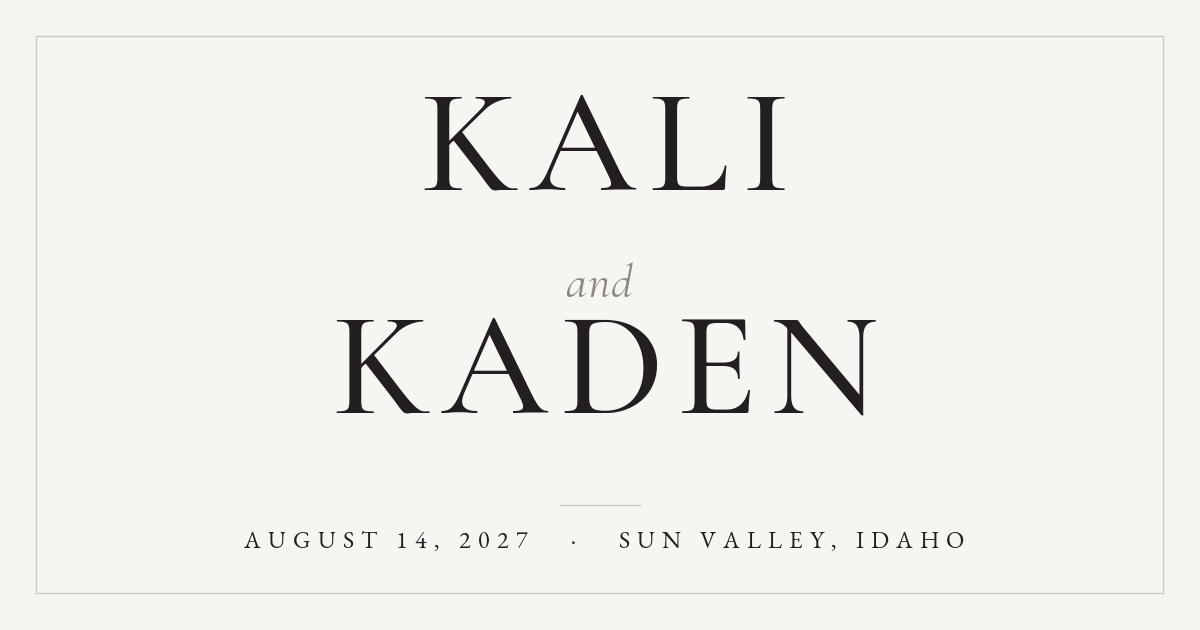
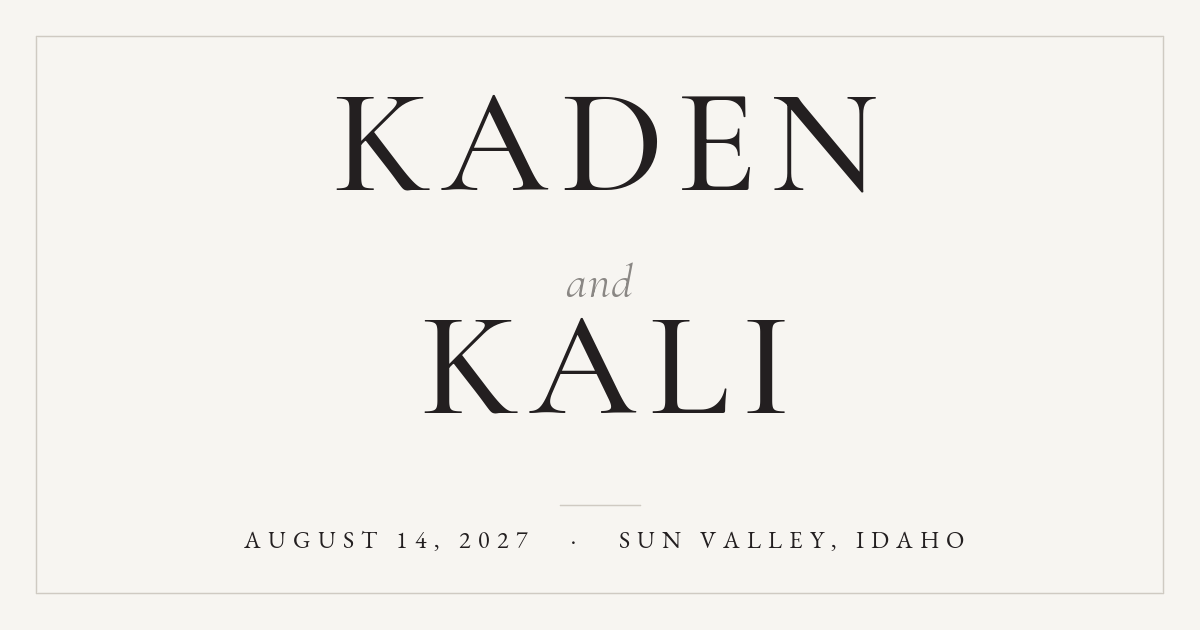
Order the names Kaden and Kali everywhere, matching the domain
Text, titles, meta tags, alt text, docs, and the regenerated share image.

Changed region(s): [[0.2775, 0.4825, 0.74, 0.6635], [0.2775, 0.1508, 0.74, 0.3016], [0.4933, 0.4825, 0.5242, 0.5127]]

diff --git a/admin/index.html b/admin/index.html
@@ -3,7 +3,7 @@
 <head>
   <meta charset="UTF-8" />
   <meta name="viewport" content="width=device-width, initial-scale=1.0" />
-  <title>Kali &amp; Kaden &middot; Preview</title>
+  <title>Kaden &amp; Kali &middot; Preview</title>
   <meta name="robots" content="noindex, nofollow" />
   <!-- Icons -->
   <link rel="icon" href="/assets/favicon.ico" sizes="any" />
@@ -11,12 +11,12 @@
   <link rel="icon" type="image/png" sizes="16x16" href="/assets/favicon-16.png" />
   <link rel="apple-touch-icon" sizes="180x180" href="/assets/apple-touch-icon.png" />
   <meta name="theme-color" content="#f7f5f1" />
-  <meta name="apple-mobile-web-app-title" content="Kali &amp; Kaden" />
+  <meta name="apple-mobile-web-app-title" content="Kaden &amp; Kali" />
 
   <!-- Link previews (iMessage, Slack, Facebook, Twitter) -->
   <meta property="og:type" content="website" />
-  <meta property="og:site_name" content="Kali &amp; Kaden" />
-  <meta property="og:title" content="Kali &amp; Kaden" />
+  <meta property="og:site_name" content="Kaden &amp; Kali" />
+  <meta property="og:title" content="Kaden &amp; Kali" />
   <meta property="og:description" content="August 14, 2027 &middot; Galena Lodge, Sun Valley, Idaho" />
   <meta property="og:url" content="https://kadenandkali.com/admin/" />
   <meta property="og:image" content="https://kadenandkali.com/assets/og-image.png" />
@@ -24,22 +24,22 @@
   <meta property="og:image:type" content="image/png" />
   <meta property="og:image:width" content="1200" />
   <meta property="og:image:height" content="630" />
-  <meta property="og:image:alt" content="Kali and Kaden. August 14, 2027. Sun Valley, Idaho." />
+  <meta property="og:image:alt" content="Kaden and Kali. August 14, 2027. Sun Valley, Idaho." />
   <meta name="twitter:card" content="summary_large_image" />
-  <meta name="twitter:title" content="Kali &amp; Kaden" />
+  <meta name="twitter:title" content="Kaden &amp; Kali" />
   <meta name="twitter:description" content="August 14, 2027 &middot; Galena Lodge, Sun Valley, Idaho" />
   <meta name="twitter:image" content="https://kadenandkali.com/assets/og-image.png" />
 
   <link rel="preconnect" href="https://fonts.googleapis.com" />
   <link rel="preconnect" href="https://fonts.gstatic.com" crossorigin />
   <link href="https://fonts.googleapis.com/css2?family=Cormorant+Garamond:ital,wght@0,400;0,500;0,600;1,400;1,500&family=EB+Garamond:ital,wght@0,400;0,500;1,400&display=swap" rel="stylesheet" />
-  <link rel="stylesheet" href="../styles.css?v=20261029f" />
+  <link rel="stylesheet" href="../styles.css?v=20261029g" />
 </head>
 <body class="locked">
   <!-- Guest gate: removed on launch day. See README. -->
   <div id="gate" class="gate">
     <form id="gate-form" class="gate-form" novalidate>
-      <p class="caps label">Kali <span class="brand-and">and</span> Kaden</p>
+      <p class="caps label">Kaden <span class="brand-and">and</span> Kali</p>
       <label for="gate-name" class="gate-prompt">Please enter your name as it appears on your invitation.</label>
       <input type="text" id="gate-name" name="name" autocomplete="name" autocapitalize="words" autofocus aria-describedby="gate-status" />
       <div class="form-actions">
@@ -52,7 +52,7 @@
   <!-- The site is inert inside this template until gate.js unlocks it. -->
   <template id="site">
   <header class="site-header">
-    <a href="#top" class="brand">Kali <span class="brand-and">and</span> Kaden</a>
+    <a href="#top" class="brand">Kaden <span class="brand-and">and</span> Kali</a>
     <button class="menu-toggle" aria-label="Open menu" aria-expanded="false" aria-controls="menu">
       <span></span><span></span><span></span>
     </button>
@@ -74,12 +74,12 @@
     <section class="hero hero-photo">
       <picture class="hero-media">
         <source media="(max-width: 700px)" srcset="../assets/hero-small.jpg" />
-        <img src="../assets/hero.jpg" alt="Kali and Kaden walking hand in hand through a mountain meadow" fetchpriority="high" />
+        <img src="../assets/hero.jpg" alt="Kaden and Kali walking hand in hand through a mountain meadow" fetchpriority="high" />
       </picture>
       <div class="hero-scrim" aria-hidden="true"></div>
       <div class="hero-inner">
         <p class="caps hero-eyebrow">We&rsquo;re getting married</p>
-        <h1 class="hero-names">Kali <span class="amp">&amp;</span> Kaden</h1>
+        <h1 class="hero-names">Kaden <span class="amp">&amp;</span> Kali</h1>
         <p class="caps hero-date" id="hero-date">08 . 14 . 27</p>
         <p class="caps hero-place">Sun Valley, Idaho</p>
         <p class="hero-countdown" id="countdown" aria-live="polite"></p>
@@ -169,7 +169,7 @@
     </section>
 
     <!-- Photo -->
-    <figure class="photo photo-inset" role="img" aria-label="Photo of Kali and Kaden">
+    <figure class="photo photo-inset" role="img" aria-label="Photo of Kaden and Kali">
       <div class="photo-placeholder"><span class="caps">Photograph</span></div>
     </figure>
 
@@ -246,12 +246,12 @@
   </main>
 
   <footer class="site-footer">
-    <p class="caps">Kali <span class="brand-and">and</span> Kaden &middot; August 14, 2027 &middot; Sun Valley, Idaho</p>
+    <p class="caps">Kaden <span class="brand-and">and</span> Kali &middot; August 14, 2027 &middot; Sun Valley, Idaho</p>
   </footer>
 
   </template>
 
-  <script src="../config.js?v=20261029f"></script>
-  <script src="gate.js?v=20261029f"></script>
+  <script src="../config.js?v=20261029g"></script>
+  <script src="gate.js?v=20261029g"></script>
 </body>
 </html>

diff --git a/admin/details.html b/admin/details.html
@@ -3,7 +3,7 @@
 <head>
   <meta charset="UTF-8" />
   <meta name="viewport" content="width=device-width, initial-scale=1.0" />
-  <title>Wedding Details &middot; Kali &amp; Kaden</title>
+  <title>Wedding Details &middot; Kaden &amp; Kali</title>
   <meta name="robots" content="noindex, nofollow" />
   <!-- Icons -->
   <link rel="icon" href="/assets/favicon.ico" sizes="any" />
@@ -11,12 +11,12 @@
   <link rel="icon" type="image/png" sizes="16x16" href="/assets/favicon-16.png" />
   <link rel="apple-touch-icon" sizes="180x180" href="/assets/apple-touch-icon.png" />
   <meta name="theme-color" content="#f7f5f1" />
-  <meta name="apple-mobile-web-app-title" content="Kali &amp; Kaden" />
+  <meta name="apple-mobile-web-app-title" content="Kaden &amp; Kali" />
 
   <!-- Link previews (iMessage, Slack, Facebook, Twitter) -->
   <meta property="og:type" content="website" />
-  <meta property="og:site_name" content="Kali &amp; Kaden" />
-  <meta property="og:title" content="Kali &amp; Kaden" />
+  <meta property="og:site_name" content="Kaden &amp; Kali" />
+  <meta property="og:title" content="Kaden &amp; Kali" />
   <meta property="og:description" content="August 14, 2027 &middot; Galena Lodge, Sun Valley, Idaho" />
   <meta property="og:url" content="https://kadenandkali.com/admin/details.html" />
   <meta property="og:image" content="https://kadenandkali.com/assets/og-image.png" />
@@ -24,22 +24,22 @@
   <meta property="og:image:type" content="image/png" />
   <meta property="og:image:width" content="1200" />
   <meta property="og:image:height" content="630" />
-  <meta property="og:image:alt" content="Kali and Kaden. August 14, 2027. Sun Valley, Idaho." />
+  <meta property="og:image:alt" content="Kaden and Kali. August 14, 2027. Sun Valley, Idaho." />
   <meta name="twitter:card" content="summary_large_image" />
-  <meta name="twitter:title" content="Kali &amp; Kaden" />
+  <meta name="twitter:title" content="Kaden &amp; Kali" />
   <meta name="twitter:description" content="August 14, 2027 &middot; Galena Lodge, Sun Valley, Idaho" />
   <meta name="twitter:image" content="https://kadenandkali.com/assets/og-image.png" />
 
   <link rel="preconnect" href="https://fonts.googleapis.com" />
   <link rel="preconnect" href="https://fonts.gstatic.com" crossorigin />
   <link href="https://fonts.googleapis.com/css2?family=Cormorant+Garamond:ital,wght@0,400;0,500;0,600;1,400;1,500&family=EB+Garamond:ital,wght@0,400;0,500;1,400&display=swap" rel="stylesheet" />
-  <link rel="stylesheet" href="../styles.css?v=20261029f" />
+  <link rel="stylesheet" href="../styles.css?v=20261029g" />
 </head>
 <body class="locked">
   <!-- Guest gate: same as index.html. A visitor who unlocked the main page is already through. -->
   <div id="gate" class="gate">
     <form id="gate-form" class="gate-form" novalidate>
-      <p class="caps label">Kali <span class="brand-and">and</span> Kaden</p>
+      <p class="caps label">Kaden <span class="brand-and">and</span> Kali</p>
       <label for="gate-name" class="gate-prompt">Please enter your name as it appears on your invitation.</label>
       <input type="text" id="gate-name" name="name" autocomplete="name" autocapitalize="words" autofocus aria-describedby="gate-status" />
       <div class="form-actions">
@@ -51,7 +51,7 @@
 
   <template id="site">
   <header class="site-header">
-    <a href="index.html" class="brand">Kali <span class="brand-and">and</span> Kaden</a>
+    <a href="index.html" class="brand">Kaden <span class="brand-and">and</span> Kali</a>
     <button class="menu-toggle" aria-label="Open menu" aria-expanded="false" aria-controls="menu">
       <span></span><span></span><span></span>
     </button>
@@ -119,11 +119,11 @@
   </main>
 
   <footer class="site-footer">
-    <p class="caps">Kali <span class="brand-and">and</span> Kaden &middot; August 14, 2027 &middot; Sun Valley, Idaho</p>
+    <p class="caps">Kaden <span class="brand-and">and</span> Kali &middot; August 14, 2027 &middot; Sun Valley, Idaho</p>
   </footer>
   </template>
 
-  <script src="../config.js?v=20261029f"></script>
-  <script src="gate.js?v=20261029f"></script>
+  <script src="../config.js?v=20261029g"></script>
+  <script src="gate.js?v=20261029g"></script>
 </body>
 </html>

diff --git a/index.html b/index.html
@@ -3,20 +3,20 @@
 <head>
   <meta charset="UTF-8" />
   <meta name="viewport" content="width=device-width, initial-scale=1.0" />
-  <title>Kali &amp; Kaden</title>
-  <meta name="description" content="Kali and Kaden are getting married. August 14, 2027. Sun Valley, Idaho." />
+  <title>Kaden &amp; Kali</title>
+  <meta name="description" content="Kaden and Kali are getting married. August 14, 2027. Sun Valley, Idaho." />
   <!-- Icons -->
   <link rel="icon" href="/assets/favicon.ico" sizes="any" />
   <link rel="icon" type="image/png" sizes="32x32" href="/assets/favicon-32.png" />
   <link rel="icon" type="image/png" sizes="16x16" href="/assets/favicon-16.png" />
   <link rel="apple-touch-icon" sizes="180x180" href="/assets/apple-touch-icon.png" />
   <meta name="theme-color" content="#f7f5f1" />
-  <meta name="apple-mobile-web-app-title" content="Kali &amp; Kaden" />
+  <meta name="apple-mobile-web-app-title" content="Kaden &amp; Kali" />
 
   <!-- Link previews (iMessage, Slack, Facebook, Twitter) -->
   <meta property="og:type" content="website" />
-  <meta property="og:site_name" content="Kali &amp; Kaden" />
-  <meta property="og:title" content="Kali &amp; Kaden" />
+  <meta property="og:site_name" content="Kaden &amp; Kali" />
+  <meta property="og:title" content="Kaden &amp; Kali" />
   <meta property="og:description" content="August 14, 2027 &middot; Galena Lodge, Sun Valley, Idaho" />
   <meta property="og:url" content="https://kadenandkali.com/" />
   <meta property="og:image" content="https://kadenandkali.com/assets/og-image.png" />
@@ -24,16 +24,16 @@
   <meta property="og:image:type" content="image/png" />
   <meta property="og:image:width" content="1200" />
   <meta property="og:image:height" content="630" />
-  <meta property="og:image:alt" content="Kali and Kaden. August 14, 2027. Sun Valley, Idaho." />
+  <meta property="og:image:alt" content="Kaden and Kali. August 14, 2027. Sun Valley, Idaho." />
   <meta name="twitter:card" content="summary_large_image" />
-  <meta name="twitter:title" content="Kali &amp; Kaden" />
+  <meta name="twitter:title" content="Kaden &amp; Kali" />
   <meta name="twitter:description" content="August 14, 2027 &middot; Galena Lodge, Sun Valley, Idaho" />
   <meta name="twitter:image" content="https://kadenandkali.com/assets/og-image.png" />
 
   <link rel="preconnect" href="https://fonts.googleapis.com" />
   <link rel="preconnect" href="https://fonts.gstatic.com" crossorigin />
   <link href="https://fonts.googleapis.com/css2?family=Cormorant+Garamond:ital,wght@0,400;0,500;0,600;1,400;1,500&family=EB+Garamond:ital,wght@0,400;0,500;1,400&display=swap" rel="stylesheet" />
-  <link rel="stylesheet" href="styles.css?v=20261029f" />
+  <link rel="stylesheet" href="styles.css?v=20261029g" />
   <script>
     // Local development: skip the holding page and open the preview.
     (() => {

diff --git a/admin/gate.js b/admin/gate.js
@@ -15,7 +15,7 @@
    ========================================================= */
 (() => {
   const CONFIG = window.KK_CONFIG;
-  const APP_SCRIPT = "../app.js?v=20261029f";
+  const APP_SCRIPT = "../app.js?v=20261029g";
   const UNLOCK_KEY = "kk-preview-unlocked";
 
   const gate = document.getElementById("gate");

diff --git a/AGENTS.md b/AGENTS.md
@@ -6,7 +6,7 @@ to work here safely.
 
 ## What this is
 
-The wedding website for **Kali and Kaden**. Wedding: **Saturday, August 14, 2027** at
+The wedding website for **Kaden and Kali**. Wedding: **Saturday, August 14, 2027** at
 **Galena Lodge, Sun Valley, Idaho**. Live at **https://kadenandkali.com**, hosted on GitHub
 Pages straight from the `main` branch. There is no build step: the files in this repo are the
 files guests download.
@@ -153,8 +153,8 @@ The look is modeled on Bliss & Bone's "Rivera" template: classic, quiet, editori
 3. Open the browser console. There should be no errors.
 4. If you touched the menu, countdown, or form, click through them. Do not submit the form.
 5. If you changed CSS or JavaScript, confirm you bumped the `?v=` version strings.
-6. Read the page copy once more as a guest would. Names are **Kali** and **Kaden**, in that
-   order.
+6. Read the page copy once more as a guest would. Names are **Kaden** and **Kali**, in that
+   order, matching the domain kadenandkali.com.
 
 ## Adding photos
 
@@ -168,7 +168,7 @@ less, under 500 KB each. Replace the placeholder:
 with
 
 ```html
-<img src="/assets/your-photo.jpg" alt="Kali and Kaden at ..." />
+<img src="/assets/your-photo.jpg" alt="Kaden and Kali at ..." />
 ```
 
 Keep the `<figure class="photo ...">` wrapper. The grayscale treatment is automatic.

diff --git a/README.md b/README.md
@@ -1,6 +1,6 @@
 # Wedding Website
 
-Kali and Kaden's wedding site. Galena Lodge, Sun Valley, Idaho. August 14, 2027.
+Kaden and Kali's wedding site. Galena Lodge, Sun Valley, Idaho. August 14, 2027.
 
 A single-page, responsive site with no build step. RSVPs are written to a
 Google Sheet through a Google Apps Script web app.
